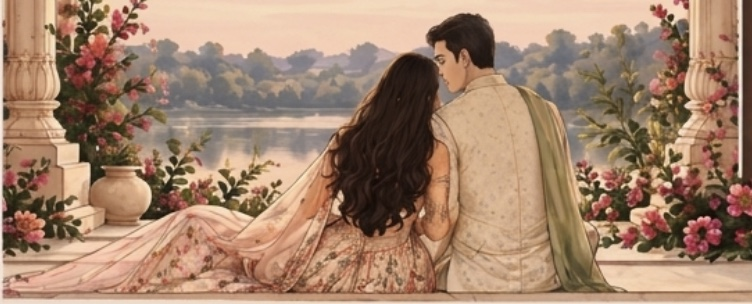
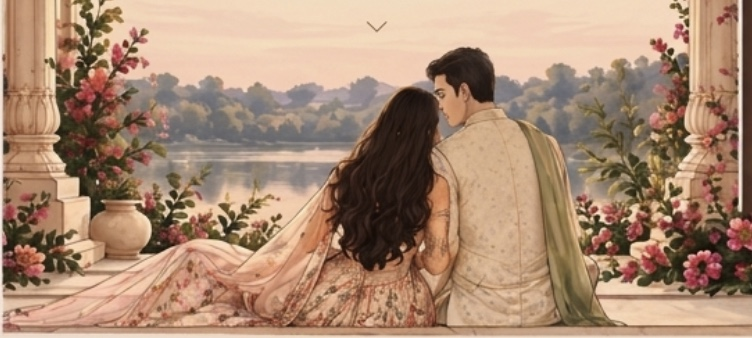
Improve hero artwork crop and cap its display size

diff --git a/css/styles.css b/css/styles.css
@@ -174,12 +174,17 @@ h3 {
 @keyframes bob { 0%,100% { transform: translateY(0); } 50% { transform: translateY(6px); } }
 
 .hero__couple {
-  position: relative; z-index: 1; margin-top: -40px;
-  -webkit-mask-image: linear-gradient(to bottom, transparent 0%, #000 26%);
-  mask-image: linear-gradient(to bottom, transparent 0%, #000 26%);
+  position: relative; z-index: 1; margin-top: -56px;
+  width: min(100%, 1240px); margin-inline: auto;
+  -webkit-mask-image: linear-gradient(to bottom, transparent 0%, #000 18%), linear-gradient(to right, transparent 0%, #000 10%, #000 90%, transparent 100%);
+  mask-image: linear-gradient(to bottom, transparent 0%, #000 18%), linear-gradient(to right, transparent 0%, #000 10%, #000 90%, transparent 100%);
+  -webkit-mask-composite: source-in; mask-composite: intersect;
+}
+@media (min-width: 1241px) {
+  .hero__couple { -webkit-mask-image: linear-gradient(to bottom, transparent 0%, #000 18%), linear-gradient(to right, transparent 0%, #000 12%, #000 88%, transparent 100%); mask-image: linear-gradient(to bottom, transparent 0%, #000 18%), linear-gradient(to right, transparent 0%, #000 12%, #000 88%, transparent 100%); }
 }
 .hero__couple img {
-  width: 100%; height: clamp(230px, 46vw, 640px);
+  width: 100%; height: auto; aspect-ratio: 752 / 338;
   object-fit: cover; object-position: center bottom;
 }
 
@@ -345,8 +350,8 @@ h3 {
   .hero .eyebrow { font-size: 0.7rem; letter-spacing: 0.36em; }
   .hero__date, .hero__venue { font-size: 0.74rem; letter-spacing: 0.3em; }
   .hero__tagline { font-size: 0.7rem; letter-spacing: 0.24em; }
-  .hero__couple { margin-top: -20px; }
-  .hero__couple img { height: 62vw; }
+  .hero__couple { margin-top: -24px; -webkit-mask-image: linear-gradient(to bottom, transparent 0%, #000 18%); mask-image: linear-gradient(to bottom, transparent 0%, #000 18%); }
+  .hero__couple img { height: 62vw; aspect-ratio: auto; }
   .countdown { gap: 16px; }
 
   .arches { grid-template-columns: 1fr; gap: 44px; }
